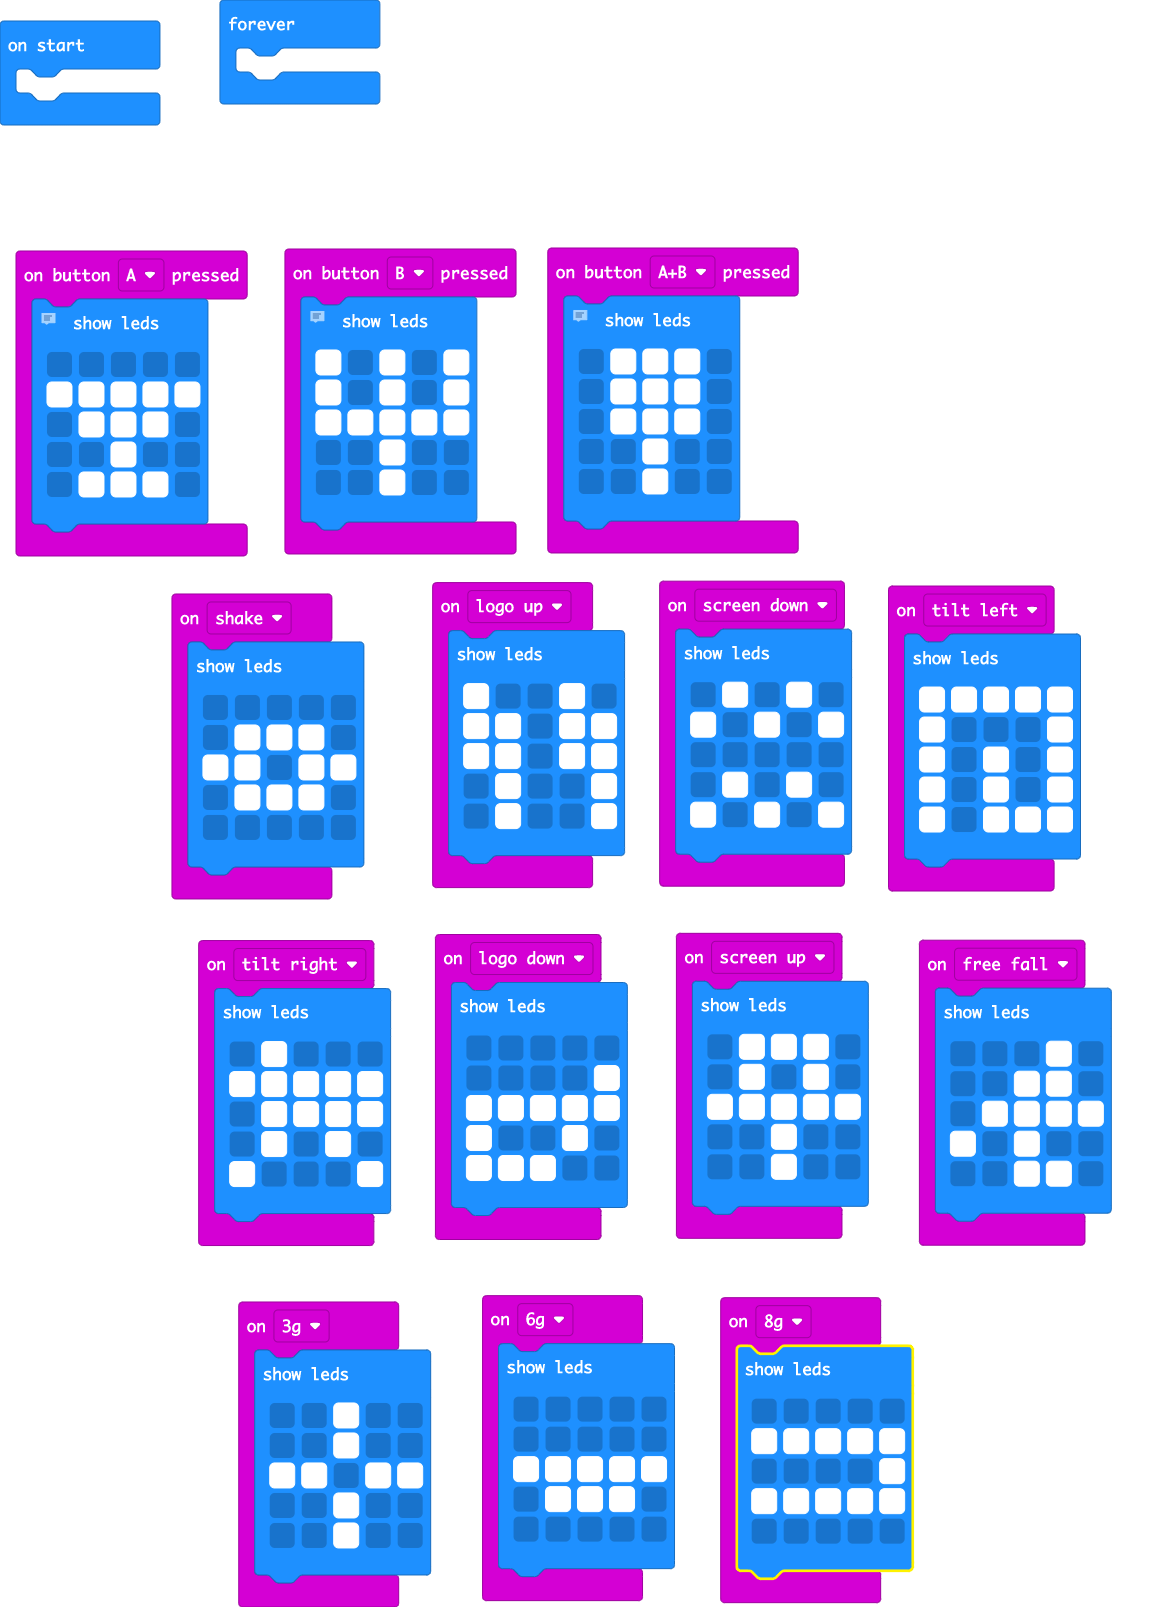
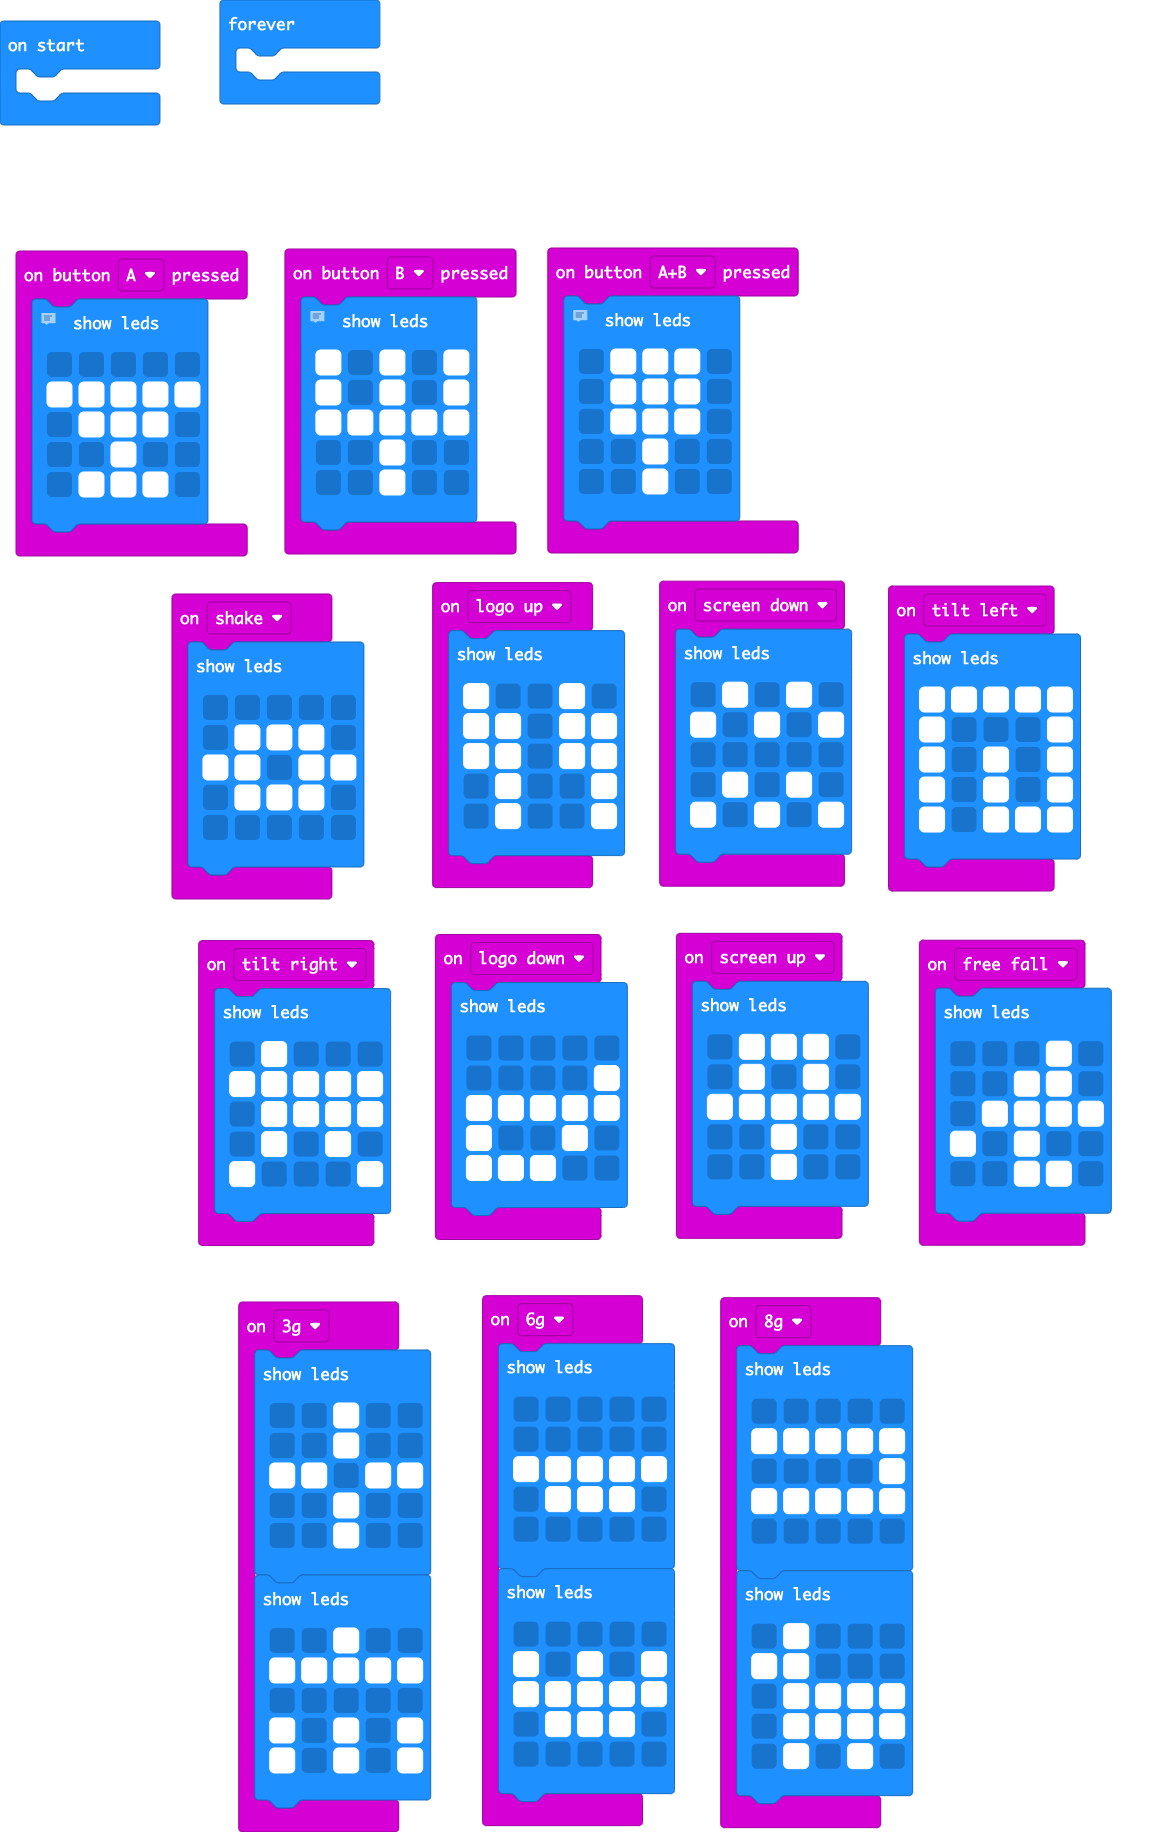
Update main.blocks, main.ts

diff --git a/main.ts b/main.ts
@@ -6,6 +6,13 @@ input.onGesture(Gesture.EightG, function () {
         # # # # #
         . . . . .
         `)
+    basic.showLeds(`
+        . # . . .
+        # # . . .
+        . # # # #
+        . # # # #
+        . # . # .
+        `)
 })
 input.onButtonPressed(Button.A, function () {
     // beber
@@ -48,6 +55,13 @@ input.onGesture(Gesture.SixG, function () {
     basic.showLeds(`
         . . . . .
         . . . . .
+        # # # # #
+        . # # # .
+        . . . . .
+        `)
+    basic.showLeds(`
+        . . . . .
+        # . # . #
         # # # # #
         . # # # .
         . . . . .
@@ -125,6 +139,13 @@ input.onGesture(Gesture.ThreeG, function () {
         # # . # #
         . . # . .
         . . # . .
+        `)
+    basic.showLeds(`
+        . . # . .
+        # # # # #
+        . . . . .
+        # . # . #
+        # . # . #
         `)
 })
 basic.forever(function () {
